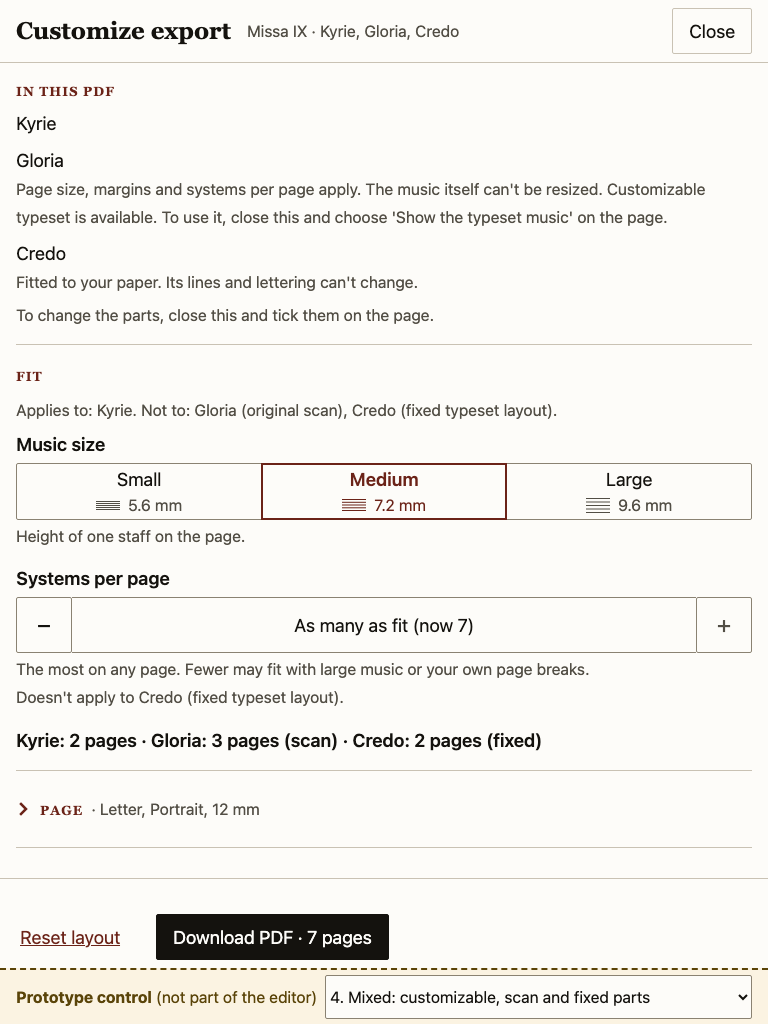
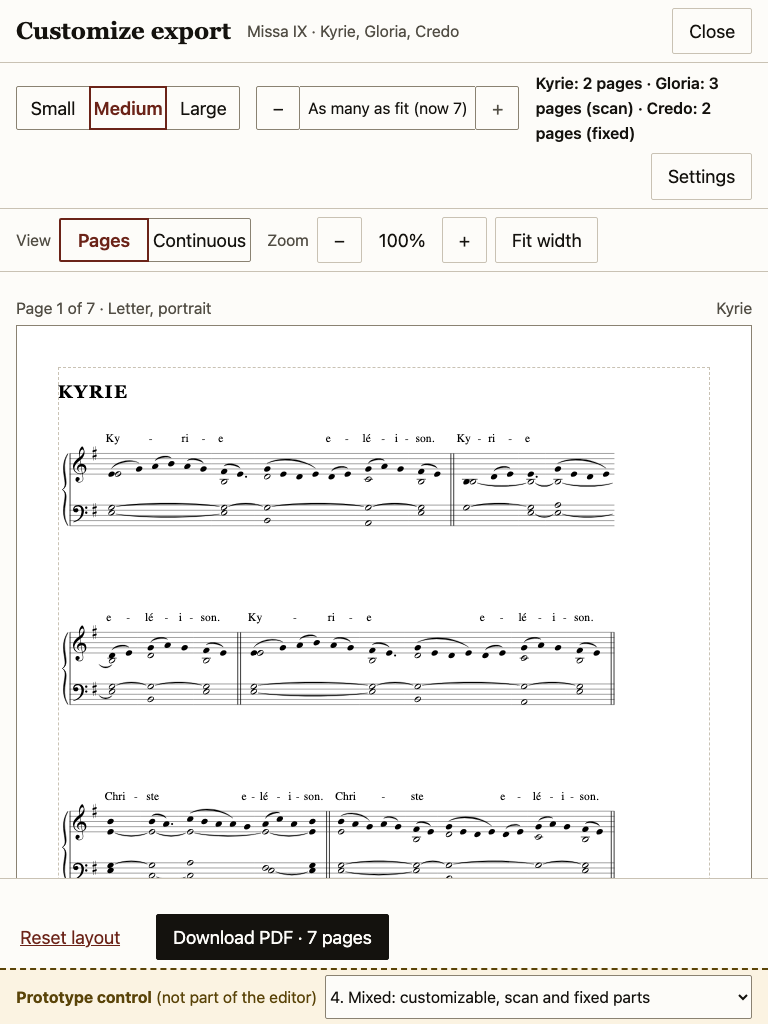
docs(export): preview-first iPad portrait layout for the editor mockup

diff --git a/docs/superpowers/mockups/export-layout/editor.html b/docs/superpowers/mockups/export-layout/editor.html
@@ -203,6 +203,7 @@ dialog.cx {
   background: var(--paper); color: var(--ink); overflow: hidden;
 }
 dialog.cx[open] { display: grid; grid-template-rows: auto minmax(0, 1fr) auto; }
+dialog.cx[open]:not([data-bp="wide"]) { grid-template-rows: auto auto minmax(0, 1fr) auto; }
 dialog.cx::backdrop { background: var(--paper); }
 dialog.cx[data-forced] { width: 390px; left: 50%; margin-left: -195px; border-left: 1px solid var(--rule); border-right: 1px solid var(--rule); }
 .cx, .cx button, .cx input, .cx select { font-family: var(--font-ui); }
@@ -230,8 +231,7 @@ dialog.cx[data-forced] { width: 390px; left: 50%; margin-left: -195px; border-le
 .cx-grp legend.cx-h { float: left; width: 100%; }
 .cx-grp legend.cx-h + * { clear: both; }
 .cx-det > summary .cx-h { margin: 0; }
-.cx[data-bp="wide"] .cx-det > summary { display: none; }
-.cx:not([data-bp="wide"]) .cx-det legend { position: absolute; width: 1px; height: 1px; overflow: hidden; clip: rect(0 0 0 0); white-space: nowrap; }
+.cx-det > summary { display: none; }
 .cx-field { margin-top: var(--s-3); }
 .cx-field:first-of-type { margin-top: 0; }
 .cx-lab { display: block; font-family: var(--font-ui); font-weight: 600; margin-bottom: var(--s-1); }
@@ -293,7 +293,38 @@ button[aria-pressed="true"] { border: 2px solid var(--accent); color: var(--acce
 .cx-tg button { min-width: var(--tap-min); }
 .cx-tg output { min-width: 3.5em; text-align: center; }
 .cx-updating { margin-left: auto; }
-.cx-strip { font-weight: 600; }
+
+/* Below 62rem: header, FIT strip, preview, footer. The settings are a panel opened from the strip. */
+.cx-fitstrip { border-bottom: 1px solid var(--rule); padding: var(--s-2) var(--s-3); background: var(--paper); z-index: 5; }
+.cx[data-bp="wide"] .cx-fitstrip { display: none; }
+.cx-fitstrip fieldset { display: flex; flex-wrap: wrap; align-items: center; gap: var(--s-2) var(--s-3); }
+.cx-fitstrip .cx-grp { border: 0; margin: 0; padding: 0; }
+.cx-fitstrip .cx-field { margin: 0; }
+.cx-fitstrip legend, .cx-fitstrip .cx-lab { position: absolute; width: 1px; height: 1px; overflow: hidden; clip: rect(0 0 0 0); white-space: nowrap; }
+.cx-fitstrip legend.cx-h { float: none; width: 1px; }
+.cx-fitstrip .cx-help, .cx-fitstrip #f-applies, .cx-fitstrip #f-fixednote { display: none; }
+.cx-fitstrip #f-nomusic { margin: 0 !important; flex: 1 1 12rem; }
+.cx-fitstrip .seg { min-width: 14rem; }
+.cx[data-bp="phone"] .cx-fitstrip .seg { min-width: 9rem; }
+.cx-fitstrip .seg.tall .seg-o > span { min-height: var(--tap-min); }
+.cx-fitstrip .seg-o small { display: none; }
+.cx-fitstrip .cx-step.big button { width: var(--tap-min); height: auto; min-height: var(--tap-min); font-size: var(--step-0); }
+.cx-fitstrip .cx-step output { min-width: 8.5rem; font-size: var(--step--1); line-height: 1.2; }
+.cx-fitstrip .cx-fit { margin: 0; flex: 1 1 10rem; font-size: var(--step--1); }
+.seg-o .abbr { display: none; }
+.cx[data-bp="phone"] .cx-fitstrip .seg-o .abbr { display: inline; }
+.cx[data-bp="phone"] .cx-fitstrip .seg-o .nm { position: absolute; width: 1px; height: 1px; overflow: hidden; clip: rect(0 0 0 0); white-space: nowrap; }
+#open-settings { margin-left: auto; }
+.cx[data-bp="wide"] #open-settings { display: none; }
+.cx-phead { display: none; align-items: center; justify-content: space-between; gap: var(--s-2); margin-bottom: var(--s-3); }
+.cx-phead .cx-ptitle { font-family: var(--font-text); font-size: var(--step-1); font-weight: 600; }
+.cx:not([data-bp="wide"]) .cx-phead { display: flex; }
+.cx:not([data-bp="wide"]) .cx-settings { display: none; position: absolute; z-index: 6; background: var(--paper); overflow-y: auto; border: 0 solid var(--control-border); }
+.cx:not([data-bp="wide"]) .cx-settings:focus { outline: none; }
+.cx[data-panel="open"]:not([data-bp="wide"]) .cx-settings { display: block; }
+.cx[data-bp="mid"] .cx-settings { top: 0; bottom: 0; right: 0; width: 22rem; border-left-width: 1px; }
+.cx[data-bp="mid"][data-panel="open"] .cx-preview { margin-right: 22rem; }
+.cx[data-bp="phone"] .cx-settings { left: 0; right: 0; bottom: 0; max-height: 85dvh; border-top-width: 1px; }
 .cx-pages { padding: var(--s-4) var(--s-3); display: flex; flex-direction: column; gap: var(--s-5); overflow-x: auto; --z: 1; }
 .cx-pg { width: calc(var(--z) * 100%); margin-inline: auto; flex: none; }
 .cx-plabel { display: flex; justify-content: space-between; gap: var(--s-2); margin: 0 0 var(--s-1); font-family: var(--font-ui); }
@@ -375,8 +406,11 @@ button[aria-pressed="true"] { border: 2px solid var(--accent); color: var(--acce
     <button type="button" class="cx-close" id="cx-close">Close</button>
   </header>
 
+  <div class="cx-fitstrip" id="cx-fitstrip"></div>
+
   <div class="cx-body">
-    <aside class="cx-settings" aria-label="Export settings">
+    <aside class="cx-settings" id="cx-settings" role="region" aria-label="Export settings" tabindex="-1">
+      <div class="cx-phead"><span class="cx-ptitle" aria-hidden="true">Settings</span><button type="button" id="panel-done">Done</button></div>
       <section class="cx-grp first" aria-labelledby="h-parts">
         <h3 class="cx-h" id="h-parts">In this PDF</h3>
         <ul class="cx-partlist ui" id="cx-partlist"></ul>
@@ -403,6 +437,7 @@ button[aria-pressed="true"] { border: 2px solid var(--accent); color: var(--acce
           <p class="small muted ui cx-help" id="f-fixednote" hidden></p>
         </div>
         <p class="cx-fit" id="cx-fit" aria-hidden="true"></p>
+        <button type="button" id="open-settings" aria-expanded="false" aria-controls="cx-settings">Settings</button>
       </fieldset>
 
       <details class="cx-grp cx-det" id="g-page" open>
@@ -488,7 +523,6 @@ button[aria-pressed="true"] { border: 2px solid var(--accent); color: var(--acce
           <output id="z-val">100%</output>
           <button type="button" id="z-plus" aria-label="Zoom in">+</button>
           <button type="button" id="z-fit">Fit width</button></div>
-        <span class="small muted cx-strip" id="cx-strip" aria-hidden="true" hidden></span>
         <span class="small muted cx-updating" id="cx-updating" aria-hidden="true" hidden>Updating preview…</span>
       </div>
       <div class="cx-pages" id="cx-pages"></div>
@@ -690,7 +724,7 @@ button[aria-pressed="true"] { border: 2px solid var(--accent); color: var(--acce
     return `<svg class="staffglyph" aria-hidden="true" focusable="false" width="24" height="${h + 1}" viewBox="0 0 24 ${h + 1}">${lines}</svg>`;
   }
   const orientSvg = (w, h) => `<svg aria-hidden="true" focusable="false" width="${w + 2}" height="${h + 2}" viewBox="0 0 ${w + 2} ${h + 2}"><rect x="1.5" y="1.5" width="${w - 1}" height="${h - 1}" fill="none" stroke="currentColor" stroke-width="1"/></svg>`;
-  seg("seg-staff", "staff", ["small", "medium", "large"].map((k) => ({ v: k, html: `<span>${CAP(k)}</span><small class="seg-row">${staffGlyph(STAFF[k])}${STAFF[k].toFixed(1)} mm</small>` })));
+  seg("seg-staff", "staff", ["small", "medium", "large"].map((k) => ({ v: k, html: `<span class="nm">${CAP(k)}</span><span class="abbr" aria-hidden="true">${CAP(k)[0]}</span><small class="seg-row">${staffGlyph(STAFF[k])}${STAFF[k].toFixed(1)} mm</small>` })));
   seg("seg-tier", "tier", [{ v: "print", html: "Print" }, { v: "ipad", html: "iPad" }, { v: "custom", html: "Custom" }]);
   seg("seg-print", "preset", ["letter", "a4", "a5"].map((k) => ({ v: k, html: `${PRESETS[k].label}<small>${PRESETS[k].sub}</small>` })));
   seg("seg-ipad", "preset", ["ipad-mini", "ipad-11", "ipad-13"].map((k) => ({ v: k, html: PRESETS[k].label.replace("iPad mini", "iPad mini") })));
@@ -759,7 +793,6 @@ button[aria-pressed="true"] { border: 2px solid var(--accent); color: var(--acce
   function chrome() {
     const f = $("#cx-fit"), busy = S.pending || S.frozen;
     f.textContent = busy ? "Updating…" : resultLine(); f.dataset.pending = String(busy);
-    $("#cx-strip").textContent = resultLine();
     $("#cx-updating").hidden = !(S.showUpdating || S.frozen && S.showUpdating);
     const dl = $("#cx-download"), n = S.shown ? S.shown.pages.length : 0;
     const can = !busy && !S.err && !S.globalErr && !S.exporting && S.shown;
@@ -875,7 +908,7 @@ button[aria-pressed="true"] { border: 2px solid var(--accent); color: var(--acce
       html += noticeHTML(S.err.code, errCopy(S.err), S.err.sug, false);
     }
     host.innerHTML = html;
-    layoutHandles(); observeFirst();
+    layoutHandles();
   }
 
   /* ---- Break handles: dense hiding, roving tabindex ---- */
@@ -917,28 +950,31 @@ button[aria-pressed="true"] { border: 2px solid var(--accent); color: var(--acce
     announce(text + " Undo is available."); change();
   }
 
-  /* ---- First-page observer for the narrow result strip ---- */
-  let io;
-  function observeFirst() {
-    if (io) io.disconnect();
-    const first = $(".cx-pg"); if (!first || !("IntersectionObserver" in window)) return;
-    io = new IntersectionObserver((es) => { $("#cx-strip").hidden = dlg.dataset.bp === "wide" || es[0].isIntersecting; }, { root: dlg.dataset.bp === "wide" ? null : $(".cx-body") });
-    io.observe(first);
-  }
-
   /* ---- Breakpoints (rem values from the site; set by script so scenario 13 can show the phone layout on a desktop) ---- */
   function setBp() {
     const w = matchMedia("(min-width: 62rem)").matches ? "wide" : matchMedia("(min-width: 40rem)").matches ? "mid" : "phone";
     const bp = S.forced || w, prev = dlg.dataset.bp;
     dlg.dataset.bp = bp;
     if (S.forced) dlg.setAttribute("data-forced", ""); else dlg.removeAttribute("data-forced");
-    if (bp !== prev) {
-      ["g-page", "g-breaks"].forEach((id) => { $("#" + id).open = bp === "wide"; });
-      layoutHandles(); observeFirst();
-    }
-    $("#cx-strip").hidden = bp === "wide" || $("#cx-strip").hidden;
+    /* The FIT group lives in the settings column at 62rem and above, and in the strip under the header below it. */
+    const strip = $("#cx-fitstrip"), fit = $("#g-fit"), aside = $("#cx-settings");
+    if (bp === "wide") { if (fit.parentElement !== aside) aside.insertBefore(fit, $("#g-page")); closePanel(false); }
+    else if (fit.parentElement !== strip) strip.appendChild(fit);
+    ["g-page", "g-breaks"].forEach((id) => { $("#" + id).open = true; });
+    if (bp !== prev) layoutHandles();
     chrome();
   }
+  function openPanel() {
+    dlg.dataset.panel = "open"; $("#open-settings").setAttribute("aria-expanded", "true"); $("#cx-settings").focus();
+  }
+  function closePanel(restore) {
+    if (dlg.dataset.panel !== "open") return;
+    delete dlg.dataset.panel; $("#open-settings").setAttribute("aria-expanded", "false");
+    if (restore) $("#open-settings").focus();
+  }
+  $("#open-settings").addEventListener("click", () => { if (dlg.dataset.panel === "open") closePanel(true); else openPanel(); });
+  $("#panel-done").addEventListener("click", () => closePanel(true));
+  dlg.addEventListener("cancel", (e) => { if (dlg.dataset.panel === "open") { e.preventDefault(); closePanel(true); } });
   matchMedia("(min-width: 62rem)").addEventListener("change", setBp);
   matchMedia("(min-width: 40rem)").addEventListener("change", setBp);
   new ResizeObserver(() => { if (S.breakMode) layoutHandles(); chrome(); }).observe($("#cx-pages"));
@@ -1005,7 +1041,8 @@ button[aria-pressed="true"] { border: 2px solid var(--accent); color: var(--acce
   $("#break-mode").addEventListener("click", () => {
     S.breakMode = !S.breakMode; S.menu = null;
     if (S.breakMode) { S.view = "pages"; setStatus("Break points shown. Select one to start a new system or page there."); } else setStatus("Break points hidden.");
-    render(); $("#break-mode").focus();
+    if (S.breakMode && dlg.dataset.bp !== "wide") { closePanel(false); S.restore = -1; render(); }
+    else { render(); $("#break-mode").focus(); }
   });
   $("#stale-dismiss").addEventListener("click", () => { S.stale = false; syncControls(); $("#break-mode").focus(); });
   $("#cx-undo").addEventListener("click", undo);
@@ -1054,9 +1091,10 @@ button[aria-pressed="true"] { border: 2px solid var(--accent); color: var(--acce
     else if (e.key === "ArrowLeft") { e.preventDefault(); moveFocus(bp, vis[Math.max(0, i - 1)]); }
     else if (e.key === "Home") { e.preventDefault(); moveFocus(bp, vis[0]); }
     else if (e.key === "End") { e.preventDefault(); moveFocus(bp, vis[vis.length - 1]); }
-    else if (e.key === "Escape") { e.preventDefault(); $("#break-mode").focus(); }
+    else if (e.key === "Escape") { e.preventDefault(); (dlg.dataset.bp === "wide" ? $("#break-mode") : $("#open-settings")).focus(); }
   });
   dlg.addEventListener("keydown", (e) => {
+    if (e.key === "Escape" && dlg.dataset.panel === "open" && !e.defaultPrevented) { e.preventDefault(); closePanel(true); return; }
     if ((e.ctrlKey || e.metaKey) && e.key.toLowerCase() === "z" && !/^(INPUT|TEXTAREA)$/.test(e.target.tagName) || ((e.ctrlKey || e.metaKey) && e.key.toLowerCase() === "z" && e.target.type === "radio")) { e.preventDefault(); undo(); }
   });
 
@@ -1093,17 +1131,17 @@ button[aria-pressed="true"] { border: 2px solid var(--accent); color: var(--acce
     { n: 6, name: "6. Break editing, menu open", set: { breaks: BREAKS6 }, after: () => { S.breakMode = true; S.menu = { pt: 3 }; S.menuFocus = null; } },
     { n: 7, name: "7. Impossible layout with suggestions", set: { tier: "ipad", preset: "ipad-mini", orient: "landscape", margin: 20, staff: "large", lyrics: "large", spacing: "spacious", breaks: { 3: "page" } }, prev: { staff: "medium", orient: "portrait" }, breakMode: true },
     { n: 8, name: "8. Updating", set: { staff: "large" }, after: () => { S.frozen = true; S.showUpdating = true; } },
-    { n: 9, name: "9. Global error with Use original layout", set: {}, after: () => { S.globalErr = { code: "RENDERER_LOAD_FAILED", text: "The layout tools couldn't start in this browser.", acts: [{ act: "try", text: "Try again" }, { act: "orig", text: "Use original layout" }] }; setStatus("Can't update the preview. The layout tools couldn't start in this browser."); } },
+    { n: 9, name: "9. Global error with Use original layout", set: {}, after: () => { S.globalErr = { code: "RENDERER_LOAD_FAILED", text: "The layout tools couldn't start in this browser.", acts: [{ act: "try", text: "Try again" }, { act: "orig", text: "Use original layout" }] }; } },
     { n: 10, name: "10. Continuous view", set: {}, after: () => { S.view = "continuous"; } },
     { n: 11, name: "11. Blocked storage", set: {}, after: () => { S.storage = true; } },
     { n: 12, name: "12. Stale anchors", set: {}, after: () => { S.stale = true; setStatus("Your saved breaks for Kyrie were removed because its music was updated."); } },
-    { n: 13, name: "13. Narrow-screen collapsed groups", set: { tier: "ipad", preset: "ipad-11", margin: 4 }, forced: "phone" },
+    { n: 13, name: "13. Narrow screen: FIT strip and settings panel", set: { tier: "ipad", preset: "ipad-11", margin: 4 }, forced: "phone" },
     { n: 14, name: "14. (Extra) Scans only: no customizable part", set: {}, parts: ["gloria", "credo"] },
   ];
   $("#proto-sel").innerHTML = SCEN.map((s) => `<option value="${s.n}">${esc(s.name)}</option>`).join("");
-  function applyScenario(n) {
+  function applyScenario(n, opts) {
     const sc = SCEN.find((s) => s.n === n) || SCEN[0];
-    clearTimeout(T.job); clearTimeout(T.ind); clearInterval(T.exp);
+    clearTimeout(T.job); clearTimeout(T.ind); clearInterval(T.exp); closePanel(false);
     Object.assign(S, defaults(), { parts: (sc.parts || ["kyrie"]).map((id) => PARTS[id]), view: "pages", zoom: 100, breakMode: false, menu: null, cur: {}, pending: false, frozen: false, showUpdating: false,
       shown: null, err: null, globalErr: null, storage: false, stale: false, forced: sc.forced || null, undo: [], exporting: null, scenario: n });
     $("#cx-undo").hidden = true; $("#cx-status").textContent = "";
@@ -1121,16 +1159,17 @@ button[aria-pressed="true"] { border: 2px solid var(--accent); color: var(--acce
     if (S.err) setStatus(`Can't lay out ${S.err.part} with these settings.`);
     if (S.frozen) setStatus("Updating preview…");
     render();
+    if (opts && opts.panel && dlg.dataset.bp !== "wide") openPanel();
     try { history.replaceState(history.state, "", location.pathname + "?s=" + n); } catch (_) { /* ignore */ }
   }
   $("#proto-sel").addEventListener("change", (e) => applyScenario(Number(e.target.value)));
 
   window.__cx = { S, applyScenario, computeLayout };
-  const start = Number(new URLSearchParams(location.search).get("s")) || 1;
+  const qs = new URLSearchParams(location.search), start = Number(qs.get("s")) || 1;
   dlg.showModal();
   try { history.pushState({ cx: true }, "", location.pathname + "?s=" + start + "#customize-export"); } catch (_) { /* ignore */ }
-  applyScenario(start);
-  $("#cx-title").focus();
+  applyScenario(start, { panel: qs.get("panel") === "1" });
+  if (dlg.dataset.panel !== "open") $("#cx-title").focus();
 })();
 </script>
 </body>

diff --git a/docs/superpowers/specs/2026-10-08-export-editor-ui-spec.md b/docs/superpowers/specs/2026-10-08-export-editor-ui-spec.md
@@ -26,8 +26,9 @@ dialog.cx  (inset 0; width 100vw; height 100dvh; max-width/max-height none; marg
 │     h2#cx-title "Customize export" (font-family var(--font-text); font-size var(--step-1); weight 600)
 │     p.cx-sel .ui.small.muted  "Missa IX · Kyrie"   (selection title, from ExportBar data-title minus site name)
 │     button.cx-close  "Close"   (default button style; text, not an × icon) — right-aligned
-├── div.cx-body           (≥62rem: grid-template-columns 20rem 1fr; <62rem: single column)
-│     aside.cx-settings   (≥62rem: overflow-y auto; border-right 1px var(--rule); padding var(--s-3))
+├── div.cx-fitstrip       (<62rem only; the FIT group, §1.5; between the header and the body in the DOM)
+├── div.cx-body           (≥62rem: grid-template-columns 20rem 1fr; <62rem: the preview only, plus the Settings panel as an overlay region)
+│     aside.cx-settings   (role=region aria-label="Export settings"; ≥62rem: overflow-y auto; border-right 1px var(--rule); padding var(--s-3); <62rem: the Settings panel, §1.5)
 │        section "In this PDF"   (parts list, §1.3)
 │        fieldset Fit (Music size, Systems per page, result line) / fieldset Page / fieldset Breaks / details More options
 │        p.cx-storage (only when storage blocked, §7)
@@ -45,8 +46,7 @@ dialog.cx  (inset 0; width 100vw; height 100dvh; max-width/max-height none; marg
 
 Breakpoints reuse the site's existing values, with no new numbers:
 - **≥62rem** (`--page-max`, the same as ExportBar's sticky breakpoint): two columns. The settings column is 20rem wide, and both columns scroll independently. iPad landscape (1024px) lands here.
-- **40rem–62rem** (iPad portrait, 768px): one column. The settings come first, but each group is a collapsed `<details>` (§1.5), so the first page of the preview is visible without scrolling at 768×1024.
-- **<40rem** (390px phone): same as the middle range. The footer wraps: the status line takes the full width on row 1, and row 2 holds `[Reset layout]` on the left and `[Download PDF]` filling the rest.
+- **<62rem** (iPad portrait 768px, phone 390px): **the preview comes first.** The regions stack as header, **FIT strip**, preview (toolbar plus pages), footer. The settings column is not shown above the preview; its contents (minus FIT) move into the **Settings panel** (§1.5), opened from the strip. The first page's top edge is visible without scrolling at 768×1024 and at 390×844. Below 40rem the footer wraps: the status line takes the full width on row 1, and row 2 holds `[Reset layout]` on the left and `[Download PDF]` filling the rest.
 
 Visual hierarchy, in order:
 1. **Paper preview.** It is the largest region and the only white surface, and it shows the reflow as soon as a control changes.
@@ -148,12 +148,18 @@ Capability rules:
 - When closed, the summary shows the non-default values in `.small.muted`: "More options · Large sung text, Spacious".
 - It opens on load when either of its two values differs from its default.
 
-### 1.5 Group headings and narrow-screen collapse
+### 1.5 Group headings, FIT strip and Settings panel below 62rem
 
 - `legend`/`h3`: `font-family: var(--font-text); font-variant-caps: all-small-caps; letter-spacing: 0.06em; font-size: var(--step-0); color: var(--accent); font-weight: 600`. These are rubric-style headings taken from the source edition, and they are the editor's signature detail. Use them for FIT, PAGE, BREAKS and IN THIS PDF.
 - Groups are separated by `border-top: 1px solid var(--rule); padding-top: var(--s-3); margin-top: var(--s-3)`. No boxes and no backgrounds.
-- **<62rem:** FIT is always expanded. Its two controls and the result line take about 230px, so the first page of the preview still starts above the fold at 768×1024. PAGE, BREAKS and More options are `<details>` whose summaries show the heading and a value summary ("PAGE · 11-inch iPad, Portrait, 4 mm"); they start closed. The open/closed state is not persisted.
-- **<62rem result strip:** while the preview's first page is scrolled out of view, the sticky preview toolbar repeats the result line ("2 pages · 4 + 1 systems"), so an organist adjusting FIT can see the effect without scrolling.
+- **<62rem layout (replaces the old "FIT expanded above collapsed details").** Grid rows are header, FIT strip, body (preview), footer. The settings column never sits above the preview.
+- **FIT strip:** a fixed row under the header (it never scrolls away), `--paper` background, `border-bottom: 1px solid var(--rule)`. It holds, wrapping as needed: Music size (3-option segmented control, options at least 44px; "Small / Medium / Large" at 768, "S / M / L" at 390 with the full name kept as the accessible name); the Systems per page stepper (− and + at 44×44, same behaviour and `aria-label`s as §1.4); the live result line ("2 pages · 4 + 1 systems"); and a **Settings** button (default outline style, text label, `aria-expanded`, `aria-controls="cx-settings"`). The group labels and the helper text of these controls are visually hidden or omitted in the strip (they stay in the accessible names); the "Applies to / Not to" and "Doesn't apply to" lines appear only through the part capability text in the panel. Height: about 2 rows, at most 120px at 768 and 170px at 390. The FIT group is the same DOM and the same controls as the desktop FIT group, moved into the strip.
+- **Settings panel:** `aside.cx-settings` with `role="region"` and `aria-label="Export settings"`, a non-modal region inside the already-modal dialog (no nested `<dialog>`). It holds, in the desktop order and with the same controls, In this PDF, Page, Breaks and More options (FIT is in the strip). Its groups are always expanded; there are no `<details>` collapses except More options. It starts with a heading row "Settings" and a **Done** button.
+  - **768 (40rem–62rem):** a full-height panel 22rem wide anchored to the right edge, `border-left: 1px solid var(--control-border)`. While it is open the preview pane gets `margin-right: 22rem`, so the preview is visible and reflows beside it and keeps updating live.
+  - **390 (<40rem):** a full-width bottom sheet, `max-height: 85dvh`, scrolling inside, `border-top: 1px solid var(--control-border)`.
+  - **Focus:** opening moves focus to the panel region (`tabindex="-1"`, no visible outline) so its name is announced; Done, the Settings button (toggle) and Esc close it and return focus to the Settings button. **Esc closes the panel first, then the dialog.**
+  - **Break editing:** the mode button stays in the Breaks group inside the panel. Turning it on closes the panel and moves focus to the first break handle; Esc on a handle focuses the Settings button.
+- The old per-group value summaries and the sticky-toolbar result strip are removed.
 
 ### 1.6 Preview pane
 
@@ -309,7 +315,8 @@ Now: no break
 
 - **Semantics:** `<dialog aria-labelledby="cx-title" aria-describedby="cx-sel">` opened with `showModal()`, so the rest of the page is inert and Esc closes it natively. While open, add `html:has(dialog.cx[open]) { overflow: hidden }`. Mark the dialog `.no-print`.
 - **Open:** focus the `h2#cx-title` (`tabindex="-1"`) so screen readers announce the title and selection. **Close** (button, Esc, browser Back) returns focus to `#export-customize`. During exporting, closing cancels the PDF and sets `#export-status` to "Custom PDF cancelled."
-- **Focus order (DOM order):** Close → parts list (no stops) → Fit (music size, systems − / +) → Page (tier 1, tier 2 or custom inputs and unit, orientation, margin − / input / +) → Breaks (line breaks, break-mode button) → More options summary → its controls → toolbar (view, zoom −, +, Fit width) → break-point handles (one roving stop per page, only in edit mode) → footer (Undo, Reset/Cancel, Download PDF). On <62rem the same order holds; the group `<details>` summaries are stops.
+- **Focus order, ≥62rem (DOM order):** Close → parts list (no stops) → Fit (music size, systems − / +) → Page (tier 1, tier 2 or custom inputs and unit, orientation, margin − / input / +) → Breaks (line breaks, break-mode button) → More options summary → its controls → toolbar (view, zoom −, +, Fit width) → break-point handles (one roving stop per page, only in edit mode) → footer (Undo, Reset/Cancel, Download PDF).
+- **Focus order, <62rem:** Close → FIT strip (music size, systems − / +, Settings) → toolbar (view, zoom −, +, Fit width) → break-point handles (only in edit mode) → footer (Undo, Reset/Cancel, Download PDF). The Settings panel is out of the tab order while closed; while open, focus starts on the panel region and then follows the desktop order for Page, Breaks and More options, ending at Done.
 - **Radio groups:** native radios give arrow-key selection inside a group. Don't re-implement them.
 - **Live region:**
   - Exactly one polite region, `#cx-status`. No `role=alert` except for global errors (a separate `role="alert"` paragraph inside the error notice, rendered once).

diff --git a/docs/superpowers/mockups/export-layout/README.md b/docs/superpowers/mockups/export-layout/README.md
@@ -24,13 +24,17 @@ A small bar fixed at the bottom of the screen, labelled "Prototype control", wit
 | 10 | `?s=10` | Continuous view: reading-view notice, no frames, bottoms cropped, "Page 2 begins" dividers |
 | 11 | `?s=11` | "This browser isn't saving site settings…" at the bottom of the settings column |
 | 12 | `?s=12` | Stale-anchor `.notice` with Dismiss in the Breaks group; the same sentence in the status line |
-| 13 | `?s=13` | Phone layout (forced 390 px frame on wider screens): FIT expanded, PAGE and BREAKS collapsed with value summaries. Open the page at 390 px wide to see it for real |
+| 13 | `?s=13` (add `&panel=1` to open the panel) | Phone layout (a forced 390 px frame on wider screens): header, FIT strip, preview, footer; the Settings button opens a bottom sheet. Open the page at 390 px wide to see it for real |
 | 14 | `?s=14` | Extra, not on the card: scans and fixed parts only, so music size, line breaks and More options are replaced by one sentence (UI 1.4 capability rules) |
+
+## Layout below 62rem (preview first)
+
+Below 62rem (iPad portrait 768, phone 390) the order is header, a fixed **FIT strip** (Music size, Systems per page stepper, result line, **Settings** button), the preview, then the footer. The Settings button opens a panel with In this PDF, Page, Breaks and More options: a 22rem side panel from the right at 768 (the preview shrinks beside it and keeps updating), and a bottom sheet of at most 85dvh at 390. Done, the Settings button and Esc close it (Esc closes the panel first, then the dialog); focus returns to the Settings button. Turning on break editing closes the panel. At 62rem and above nothing changes. Add `&panel=1` to the URL to open the panel on load.
 
 ## Screenshots (`screens/`)
 
 Captured by `capture.mjs` at 1280×800, 768×1024 and 390×844:
-`s01-kyrie-ready-{1280,768,390}`, `s01-kyrie-ready-zoom50-1280`, `s02-ipad-11-{1280,768,390}`, `s04-mixed-parts-{1280,768,390}`, `s04-mixed-parts-scan-page-1280`, `s06-break-editing-{1280,768,390}`, `s06-break-editing-menu-1280`, `s07-impossible-layout-{1280,390}`, `s13-narrow-collapsed-390`, `s13-narrow-collapsed-preview-390`. All `.png`, each under 400 KB.
+`s01-kyrie-ready-{1280,768,390}`, `s01-kyrie-ready-zoom50-1280`, `s01-kyrie-ready-panel-768`, `s02-ipad-11-panel-{768,390}`, `s04-mixed-parts-panel-390`, `s02-ipad-11-{1280,768,390}`, `s04-mixed-parts-{1280,768,390}`, `s04-mixed-parts-scan-page-1280`, `s06-break-editing-{1280,768,390}`, `s06-break-editing-menu-1280`, `s07-impossible-layout-{1280,390}`, `s13-narrow-fit-strip-390`. All `.png`, each under 400 KB.
 
 Regenerate and check:
 
@@ -39,28 +43,29 @@ cd web && pnpm install --frozen-lockfile && pnpm exec playwright install chromiu
 node docs/superpowers/mockups/export-layout/capture.mjs
 ```
 
-The script prints PASS or FAIL for: all 14 scenarios render; one polite live region; every visible interactive element at least 44×44 px at 1280, 768 and 390 (with every `<details>` opened); tab order for scenario 1; no horizontal scroll at 390; the controls working; no Lettering or Music-symbol controls; no console errors or external requests.
+The script prints PASS or FAIL for: the first page visible without scrolling and the FIT strip height at 768 and 390 (scenarios 1 and 2); the Settings panel opening, closing, focus return, Esc order, 44 px targets with the panel open, and the preview beside it at 768; tab order at 62rem and above and below it; all 14 scenarios render; one polite live region; every visible interactive element at least 44×44 px at 1280, 768 and 390 (with every `<details>` opened); tab order for scenario 1; no horizontal scroll at 390; the controls working; no Lettering or Music-symbol controls; no console errors or external requests.
 
 ## Known deviations from the UI spec
 
 - **Prototype bar sits inside the `<dialog>`.** A modal dialog makes everything outside it inert, so a bar outside would be unusable. It is `position: fixed`, last in the DOM, and the dialog is shortened by its height (`--proto-h`, 3.5 rem) so the footer stays visible. Spec says the dialog is `100dvh`.
 - **Breakpoints are applied by script** (`data-bp="wide|mid|phone"` from `matchMedia` at 62 rem and 40 rem), not by CSS media queries, so scenario 13 can show the phone layout on a desktop. B8 should use plain media queries.
+- **FIT group moves between places.** The same DOM node sits in the settings column at 62 rem and above and in the strip below it. In the strip the group labels and helper text are visually hidden or omitted, and the "Applies to / Not to" lines are not shown there (the panel's part list carries the capability text).
 - **Host page.** A minimal stand-in for the Mass page with the "Customize export" button and `#export-status`, so Close and "Use original layout" have somewhere to return focus.
 - **Simulated layout model.** System count per page, the blank-page rule (unused height over 25% and the next system does not fit), break-point positions (23 per Kyrie, spread evenly) and the effect of user breaks (a page break snaps to the nearest system boundary; a system break adds one system) are invented for the mockup.
 - **Export** is a timed text simulation ("Preparing PDF — page k of N"); no file is produced.
 - **Loading and "rendering (first)" states** are not shown (not on the card's list).
 - Native radios are used inside `role="radiogroup"` wrappers so each set has a visible label.
-- Group legends are visually hidden below 62 rem (the `<details>` summary carries the heading), and the summaries are hidden at 62 rem and above, where the groups are always open.
+- The Page and Breaks groups are plain always-open fieldsets at every width; the old per-group `<details>` collapse and value summaries are gone. Only More options is a `<details>`.
 - The `.primary` and `.link` classes and `--print-paper` / `--print-ink` are defined in the editor CSS because the coordinator has not yet promoted them into `base.css` / `tokens.css`.
 
 ## Decisions for review
 
-1. **Global error is announced twice.** UI 2 and 3 want the same sentence in `#cx-status` and in a `role="alert"` paragraph. I followed it; a screen reader will say it twice. Suggest dropping the status copy for global errors.
+1. **Global error** is announced once: the `role="alert"` paragraph carries the sentence and `#cx-status` is left empty (accepted decision).
 2. **"fills the screen in forScore and similar apps"** is true only in forScore's Best Fit mode (S7), and the Pro 11 has a 1.9 mm blank strip. I kept the spec's wording as the iPad helper text; suggest "(Best Fit)" or softer wording.
 3. **The "Systems per page" stepper's `+` is disabled at "As many as fit"**, as specified, so it drops out of the tab order (the tab-order check expects that).
 4. **The "Applies to / Not to" line sits under the FIT legend**, since the spec says "under the Music legend" and there is no such legend.
 5. **Article in the copy**: "{paper}" becomes "an iPad mini landscape page" / "a Letter portrait page" (a/an chosen by script).
 6. **Scenario 7 shows three buttons**, adding "Remove the page break after 'eléison'" (a state-matrix example) to the two system-too-tall suggestions.
 7. **Margin input** clamps silently to 3–25 on commit (the spec defines no message for margins).
-8. **Mixed parts make the settings column long** at 768 px (scenario 4), so the first page is below the fold there. With one part (scenario 1) it is above the fold.
+8. **Mixed parts** no longer push the preview down: the settings live in the panel, and the first page is visible at 768 and 390 in every scenario (checked for 1 and 2).
 9. **Scenario 14 added** to demonstrate the "no customizable part" rule.
